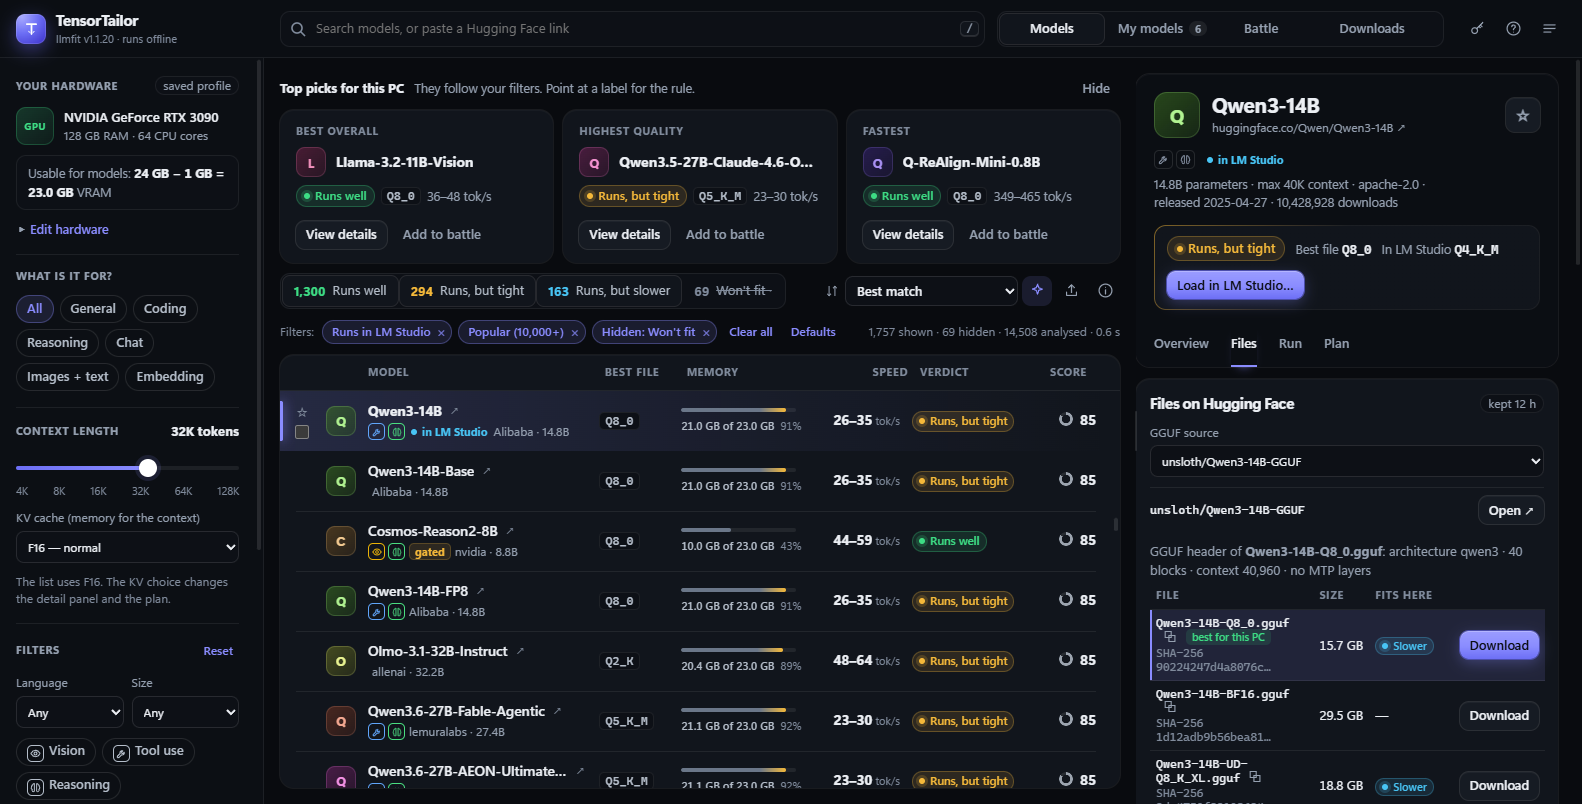
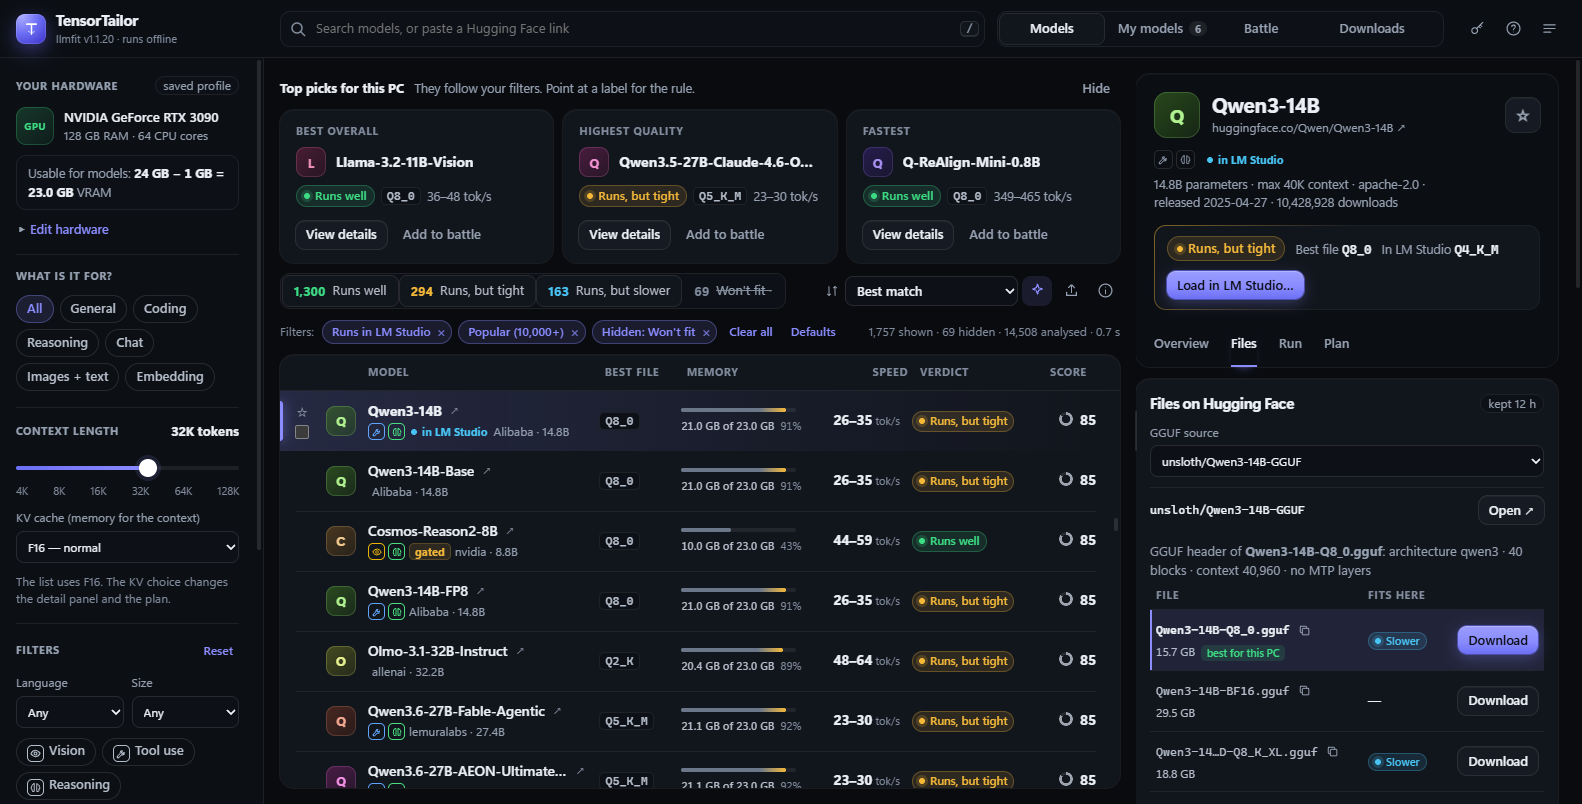
Implemented by Claude Opus 5.5: feat(web): calmer Files tab
Refinement E3: one line per file with the name shortened in the middle (the quant and the extension stay visible, full name on hover), the copy button in the line, size and 'best for this PC' below it, and the SHA-256 codes folded behind 'Show SHA-256 of each file'. The check after a download is unchanged. Help updated.

diff --git a/web/app.html b/web/app.html
@@ -853,6 +853,23 @@ input[type="range"]:focus-visible::-webkit-slider-thumb { box-shadow: 0 0 0 4px 
 
 /* ==== Refinement E1: the token key in the header (grey = no token, green = set) ==== */
 .btn.icon.key.on { color: var(--perfect); }
+/* ==== Refinement E3: the Files tab calmer (one line per file, hashes folded) ==== */
+.files-t { table-layout: fixed; }
+.files-t th:nth-child(1), .files-t td:nth-child(1) { width: auto; }
+.files-t th:nth-child(2), .files-t td:nth-child(2) { width: 90px; }
+.files-t th:nth-child(3), .files-t td:nth-child(3) { width: 92px; }
+.fsize { color: var(--text-2); font-variant-numeric: tabular-nums; }
+.files-t td { padding: 9px 6px; }
+.fcell { min-width: 0; }
+.fline { display: flex; align-items: center; gap: 4px; min-width: 0; }
+.fline .fname { flex: 0 1 auto; min-width: 0; white-space: nowrap; overflow: hidden; text-overflow: clip; overflow-wrap: normal; word-break: normal; font-size: 12px; color: var(--text-2); }
+.files-t tr.pick .fname { color: var(--text); font-weight: 600; }
+.link-copy { flex: none; display: inline-grid; place-items: center; width: 22px; height: 22px; margin: 0; padding: 0; }
+.link-copy svg { width: 13px; height: 13px; fill: none; stroke: currentColor; stroke-width: 1.8; stroke-linecap: round; stroke-linejoin: round; }
+.fsub { display: flex; gap: 6px; align-items: center; margin-top: 3px; font-size: 11.5px; }
+.fsub .rec { margin-left: 0; }
+.files-t .hash { margin-top: 3px; }
+.checks .btn.ghost.small { height: 24px; padding: 0 6px; color: var(--accent); font-size: 12px; }
 /* ==== Refinement E2: the Plan tab in plain words ==== */
 .stats.plan-need { grid-template-columns: 1fr 1fr; }
 .stats.plan-need .sub { font-size: 12px; color: var(--muted); margin-top: 3px; }
@@ -1172,7 +1189,7 @@ input[type="range"]:focus-visible::-webkit-slider-thumb { box-shadow: 0 0 0 4px 
       <dt>Panel width</dt><dd>Drag the thin line at the left edge of the detail panel to make it wider or narrower (or click it and use the arrow keys). Double-click the line for the normal width. The width is remembered in this browser.</dd>
       <dt>Overview</dt><dd>Verdict, memory, speed, and "Which file fits?" for every quantization. When llmfit's planner (more safety room) rates the best file lower than the list, a yellow note says so and names the best file that runs well. <b>Preview speed</b> shows how fast text appears at that speed. "Why this result" lists llmfit's reasons.</dd>
       <dt>KV cache from a real file</dt><dd>llmfit counts the memory for the context (the KV cache) exactly only when it knows a model's layers and head size. For about 4,900 models in its list it does not, and uses a rough rule. When TensorTailor reads a real GGUF file of such a model (your file in My models, or a file in the Files or Run tab), it fills in the missing values from the file's header. It never changes a value llmfit has, and skips a file that does not match. "Why this result" then says "KV cache counted from the GGUF header of …", and My models lists your models it did this for. Remembered in this browser.</dd>
-      <dt>Files</dt><dd>The real files on Hugging Face with their SHA-256. <b>Download</b> saves a file into your folder and checks it.</dd>
+      <dt>Files</dt><dd>The real files on Hugging Face, one line per file (point at a long name for the full name; the copy button copies the download link), the file "best for this PC" first, and the verdict per file. <b>Download</b> saves a file into your folder and checks its SHA-256 at the end. <b>Show SHA-256 of each file</b> (under the table) shows the codes; click one to copy it.</dd>
       <dt>Run</dt><dd>"LM Studio load settings for this PC": what to set in LM Studio's load dialog for this model (context length, GPU offload, flash attention, K/V cache, speculative decoding, remember settings), with the reason; point at a <span class="q">?</span> for what each setting does. <b>Load in LM Studio with these settings</b> (when the model is in LM Studio and its server is on) first shows what will be sent, then asks LM Studio to load it: context length, flash attention, KV cache on the GPU and MTP. LM Studio's API cannot set GPU offload and K/V cache quantization, so LM Studio keeps its own setting for those. A model that is loaded already is unloaded first; other loaded models stay, unless you tick the box to unload them.</dd>
       <dt>Run: Run it on this PC</dt><dd>Ready commands for LM Studio, llama.cpp or Ollama. With LM Studio, a model you already have shows <b>your</b> file first ("Your file in LM Studio · quant Q4_K_S"); llmfit's best file is named below it as an option: higher quality but less room for context, or smaller but lower quality. Below it: settings for AI agents (OpenCode, Codex).</dd>
       <dt>Plan</dt><dd>llmfit's planner: the minimum and recommended hardware, which routes work here (<b>GPU only</b>, <b>GPU + system RAM</b>, <b>CPU only</b>) with a verdict and speed for each, and <b>What would make it better?</b>: for example "+1.7 GB VRAM → Runs well (llmfit: Good)". Below: whether a target speed is reached, how many chats fit at the same time, and the disk space for your best models.</dd>
@@ -2018,6 +2035,8 @@ function fileKind(path) {
   if (p.endsWith(".imatrix") || p.includes("imatrix")) return ["helper file — not a model", "tag"];
   return ["other", "tag"];
 }
+// A long file name keeps its start and its end (the quant and the extension), with … in the middle.
+function midShort(s, max) { s = String(s); if (s.length <= max) return s; const tail = Math.ceil((max - 1) * 0.62), head = max - 1 - tail; return s.slice(0, head) + "\u2026" + s.slice(s.length - tail); }
 function tabFiles(r) {
   const m = r.m, b = r.best;
   const sources = ggufSources(m);
@@ -2051,13 +2070,15 @@ function tabFiles(r) {
       const models = shown.filter((x) => /\.gguf$/i.test(x.path) && fileKind(x.path)[0] === "model file");
       const headFile = models.find((x) => quantOfFile(x.path) === String(b.q).toUpperCase()) || models.slice().sort((a, c) => a.size - c.size)[0];
       if (headFile) { if (!state.gguf.has(repo + "/" + headFile.path)) setTimeout(() => loadGgufHeader(m, repo, headFile.path), 0); html += ggufLine(repo, headFile.path); }
-      html += `<table class="ftable" style="margin-top:8px"><thead><tr><th>File</th><th class="r">Size</th><th title="llmfit planner, with extra safety room (as in Which file fits?)">Fits here</th><th></th></tr></thead><tbody>${shown.map((x) => {
+      // As many characters as fit next to size, verdict and button (the panel can be dragged wider).
+      const nameMax = Math.max(20, Math.floor((($("detail").clientWidth || 446) - 262) / 7.4));
+      html += `<table class="ftable files-t" style="margin-top:8px"><thead><tr><th>File</th><th title="llmfit planner, with extra safety room (as in Which file fits?)">Fits here</th><th></th></tr></thead><tbody>${shown.map((x) => {
         const k = fileKind(x.path), pick = isPick(x);
         const job = dlJob(repo, x.path);
-        return `<tr class="${pick ? "pick" : ""}"><td><div class="fname">${esc(x.path)}<button class="link-copy" data-copy="${esc(dlUrl(repo, x.path))}" data-what="Link" title="Copy the download link" aria-label="Copy the download link">⧉</button>${pick ? `<span class="rec" title="The quant llmfit picks for this PC">best for this PC</span>` : ""}</div>${k[0] === "model file" ? "" : `<span class="${k[1]}">${k[0]}</span>`}${x.sha256 ? `<div class="hash">SHA-256 <span data-copy="${esc(x.sha256)}" data-what="SHA-256" title="${esc(x.sha256)}&#10;Click to copy" style="cursor:copy">${esc(x.sha256.slice(0, 16))}…</span></div>` : ""}</td><td class="r" style="white-space:nowrap">${fmtSize(x.size)}</td><td class="fit-cell">${fitCell(x)}</td><td class="r" style="white-space:nowrap">${job ? `<button class="btn small" data-view-dl="1" title="Open Downloads">${esc(DL_LABEL[job.status] || job.status)}</button>` : `<button class="btn small${pick ? " primary" : ""}" data-dl="${esc(repo)}" data-dlpath="${esc(x.path)}" title="Download into the folder you pick, then check the SHA-256 on disk">Download</button>`}</td></tr>`;
+        return `<tr class="${pick ? "pick" : ""}"><td class="fcell"><div class="fline"><span class="fname" title="${esc(x.path)}">${esc(midShort(x.path, nameMax))}</span><button class="link-copy" data-copy="${esc(dlUrl(repo, x.path))}" data-what="Link" title="Copy the download link" aria-label="Copy the download link"><svg viewBox="0 0 24 24" aria-hidden="true"><rect x="8" y="8" width="12" height="12" rx="2"/><path d="M16 8V5a1 1 0 0 0-1-1H5a1 1 0 0 0-1 1v10a1 1 0 0 0 1 1h3"/></svg></button></div><div class="fsub"><span class="fsize">${fmtSize(x.size)}</span>${pick ? `<span class="rec" title="The quant llmfit picks for this PC">best for this PC</span>` : ""}${k[0] === "model file" ? "" : `<span class="${k[1]}">${k[0]}</span>`}</div>${x.sha256 && state.showSha ? `<div class="hash">SHA-256 <span data-copy="${esc(x.sha256)}" data-what="SHA-256" title="${esc(x.sha256)}&#10;Click to copy" style="cursor:copy">${esc(x.sha256.slice(0, 16))}…</span></div>` : ""}</td><td class="fit-cell">${fitCell(x)}</td><td class="r" style="white-space:nowrap">${job ? `<button class="btn small" data-view-dl="1" title="Open Downloads">${esc(DL_LABEL[job.status] || job.status)}</button>` : `<button class="btn small${pick ? " primary" : ""}" data-dl="${esc(repo)}" data-dlpath="${esc(x.path)}" title="Download into the folder you pick, then check the SHA-256 on disk">Download</button>`}</td></tr>`;
       }).join("")}</tbody></table><p class="hint"><b>best for this PC</b> = the quant llmfit picks for this PC (${esc(b.q)}). <b>Download</b> saves into the folder you pick once, as <code>&lt;folder&gt;\\${esc(repo.replace("/", "\\"))}\\</code>. Pick LM Studio's models folder (by default <code>${esc(LMS_FOLDER_HINT)}</code>) and LM Studio sees the file at once.</p>`;
       const pickle = f.files.some((x) => /\.(bin|pt|pth|pkl|ckpt)$/i.test(x.path));
-      html += `<ul class="checks" style="margin-top:10px">${pickle ? '<li><span class="no">!</span>This repo also has pickle files (.bin/.pt). They can run code when loaded. Use the GGUF or safetensors files.</li>' : '<li><span class="ok">✓</span>No pickle files (.bin, .pt) in this repo.</li>'}<li><span class="ok">✓</span>SHA-256 of each large file is shown; the page will check it after a download.</li></ul>`;
+      html += `<ul class="checks" style="margin-top:10px">${pickle ? '<li><span class="no">!</span>This repo also has pickle files (.bin/.pt). They can run code when loaded. Use the GGUF or safetensors files.</li>' : '<li><span class="ok">✓</span>No pickle files (.bin, .pt) in this repo.</li>'}<li><span class="ok">✓</span>Every download is checked with SHA-256 at the end. <button class="btn ghost small" data-showsha="1" aria-pressed="${!!state.showSha}">${state.showSha ? "Hide" : "Show"} SHA-256 of each file</button></li></ul>`;
     }
   }
   return html + "</section>";
@@ -4198,6 +4219,7 @@ function wire() {
     const tab = t.closest("[data-tab]"); if (tab) { state.tab = tab.dataset.tab; renderDetail(); return; }
     const eng = t.closest("[data-engine]"); if (eng) { state.engine = eng.dataset.engine; renderDetail(); return; }
     const cp = t.closest("[data-copy]"); if (cp) { copyText(cp.dataset.copy, cp.dataset.what || "Text"); return; }
+    if (t.closest("[data-showsha]")) { state.showSha = !state.showSha; renderDetail(); return; }
     const lf = t.closest("[data-loadfiles]"); if (lf) { state.files.delete(lf.dataset.loadfiles); loadFiles(lf.dataset.loadfiles); renderDetail(); return; }
     const ur = t.closest("[data-userepo]"); if (ur) { state.srcIdx["repo:" + state.selected] = ur.dataset.userepo; renderDetail(); return; }
     if (t.id === "btnFindGguf") { const r = selectedResult(); if (r) searchGgufCopies(r.m); return; }
